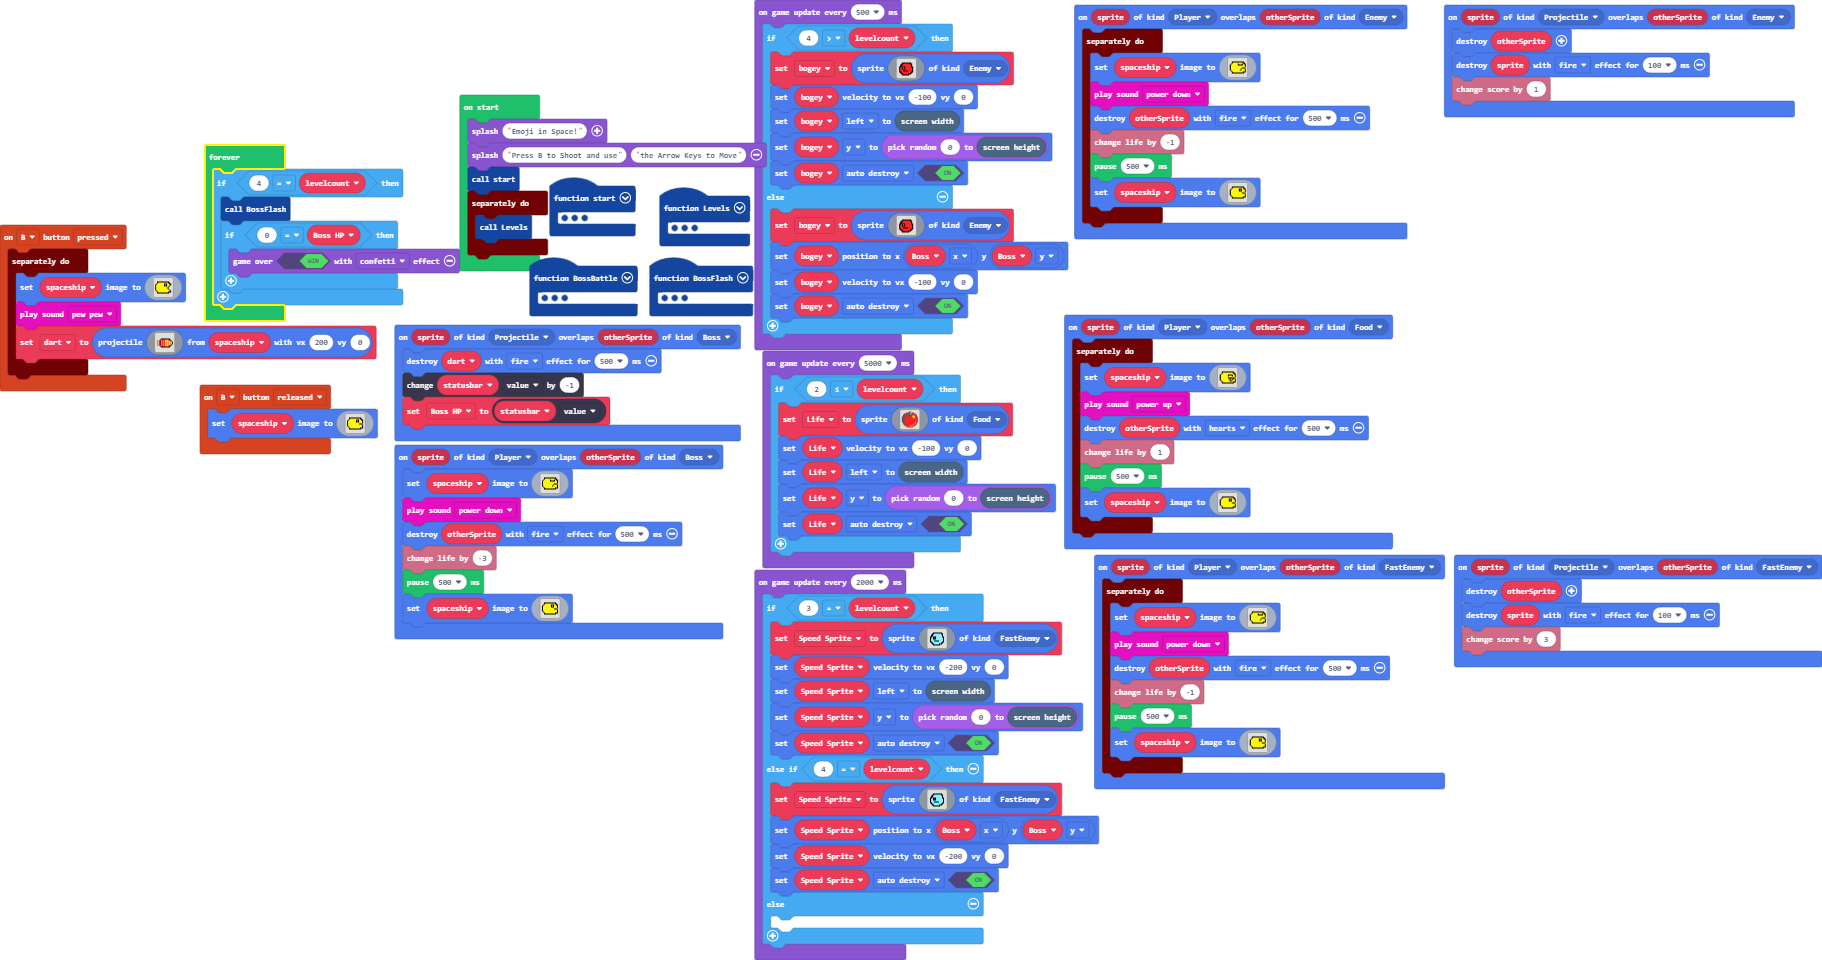
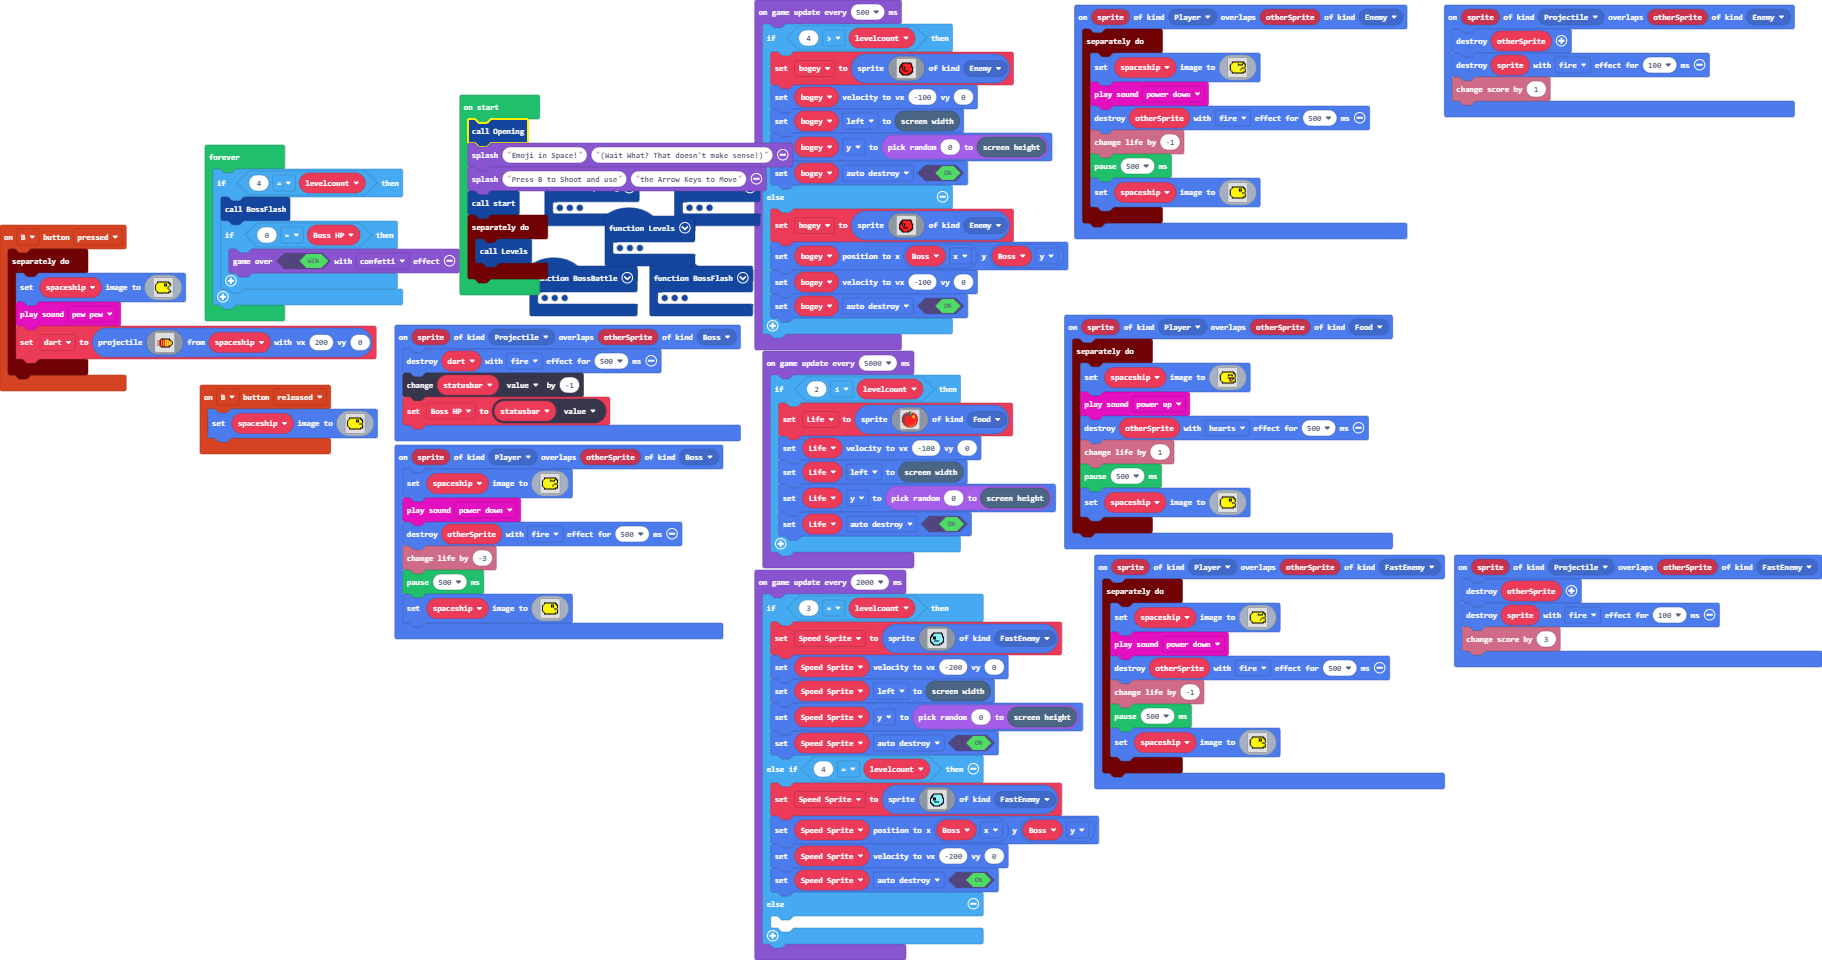
Created Opening and Finished the game for real this time.

Changed region(s): [[0.2459, 0.125, 0.4303, 0.3125], [0.1229, 0.3125, 0.1537, 0.3438]]

diff --git a/main.ts b/main.ts
@@ -114,6 +114,13 @@ function BossBattle () {
     Boss.setVelocity(0, -50)
     Boss.setFlag(SpriteFlag.BounceOnWall, true)
 }
+function Opening () {
+    game.splash("In a universe", "where evil reigns..")
+    game.splash("Only an emoji who", "breathes fireballs...")
+    game.splash("Can save it-Wait What!")
+    game.splash("Breathes fire-", "who came up with this?")
+    game.splash("Ugh Fine", "but I want a raise!")
+}
 sprites.onOverlap(SpriteKind.Projectile, SpriteKind.FastEnemy, function (sprite, otherSprite) {
     otherSprite.destroy()
     sprite.destroy(effects.fire, 100)
@@ -404,7 +411,8 @@ let statusbar: StatusBarSprite = null
 let dart: Sprite = null
 let spaceship: Sprite = null
 let levelcount = 0
-game.splash("Emoji in Space!")
+Opening()
+game.splash("Emoji in Space!", "(Wait What? That doesn't make sense!)")
 game.splash("Press B to Shoot and use", "the Arrow Keys to Move")
 start()
 timer.background(function () {
